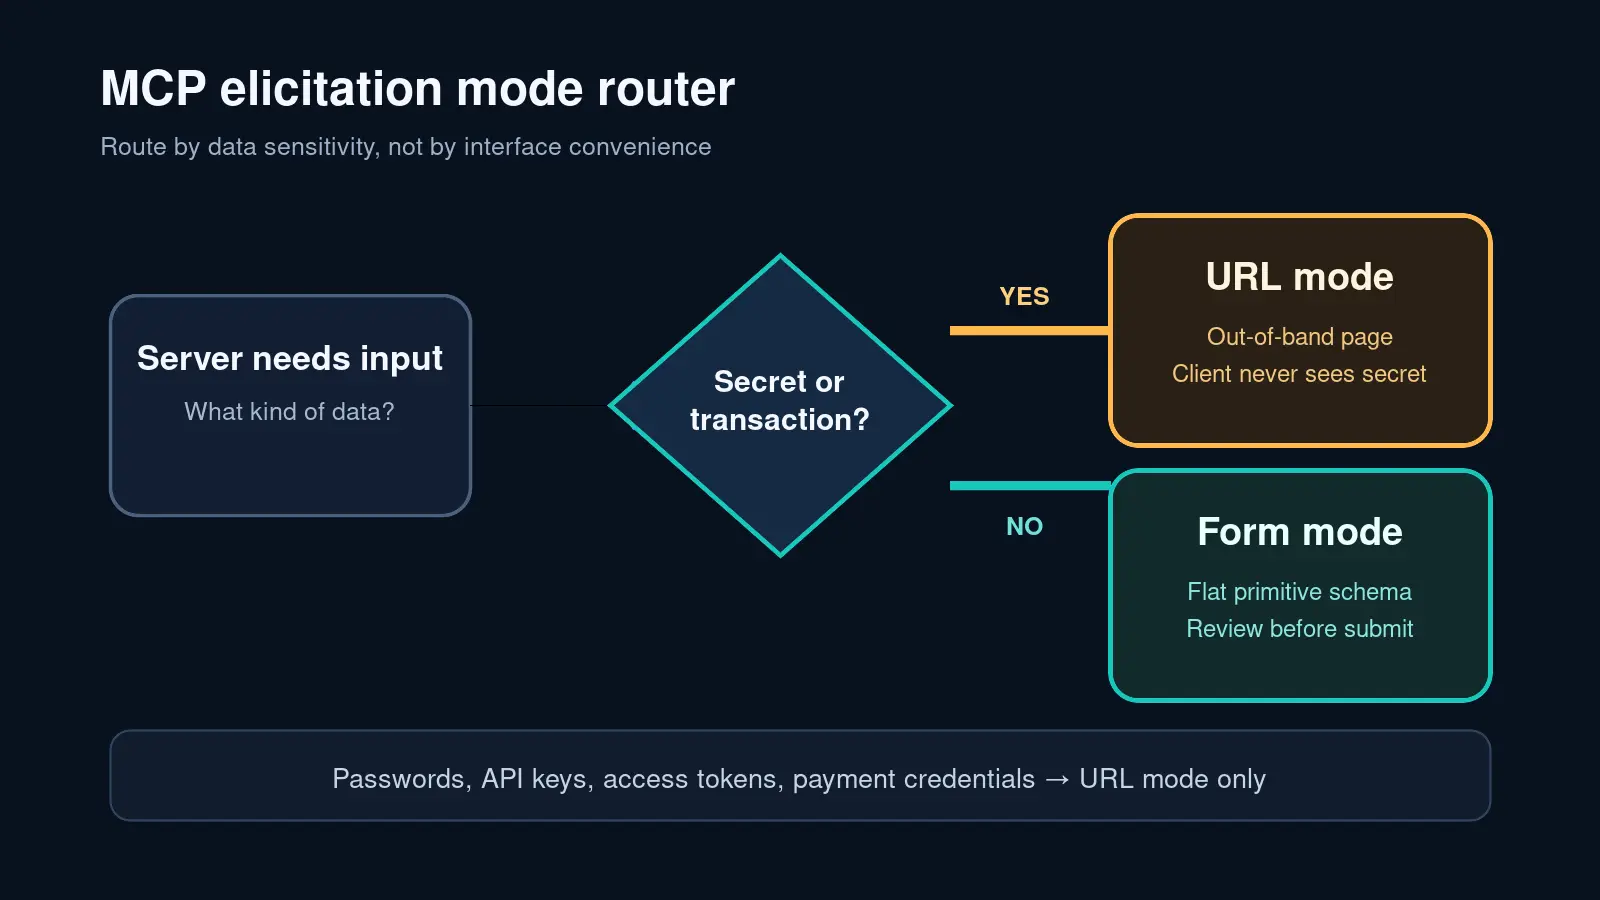
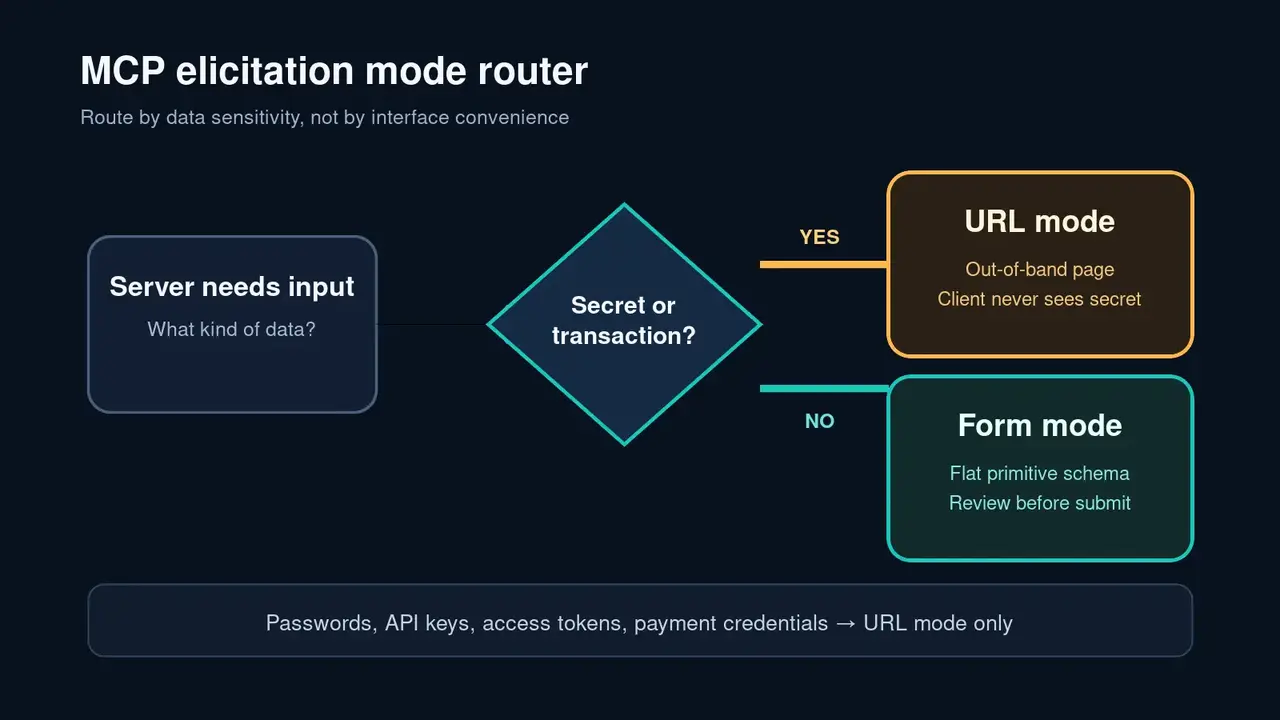
feat(articles): normalize MCP elicitation visuals

diff --git a/articles/mcp-elicitation-user-input/PROVENANCE.md b/articles/mcp-elicitation-user-input/PROVENANCE.md
@@ -1,0 +1,9 @@
+# MCP elicitation article visuals
+
+These three diagrams are original GolemWorkers editorial assets created for the `mcp-elicitation-user-input` article.
+
+- `mcp-elicitation-mode-router.webp` — cover; normalized to 1280×720 WebP on 2026-07-21.
+- `mcp-elicitation-url-lifecycle.webp` — body illustration; normalized to 960×540 WebP on 2026-07-21.
+- `mcp-elicitation-trust-boundaries.webp` — body illustration; normalized to 960×540 WebP on 2026-07-21.
+
+The matching SVG files are retained as editable sources. The raster files are the publication artifacts. They contain no third-party logos, screenshots, or licensed stock media.
